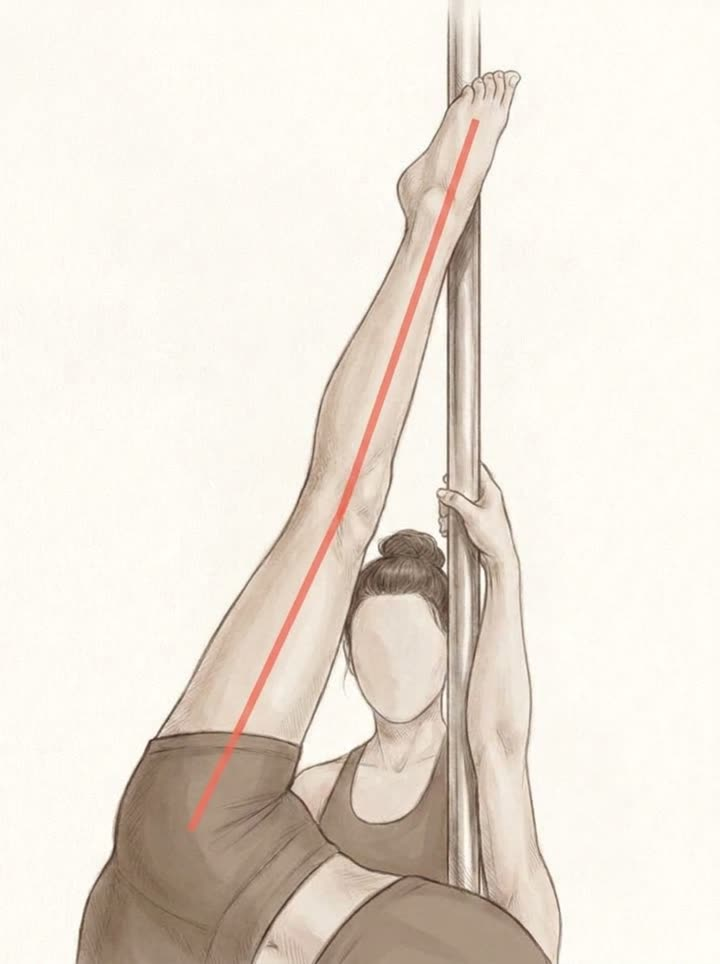
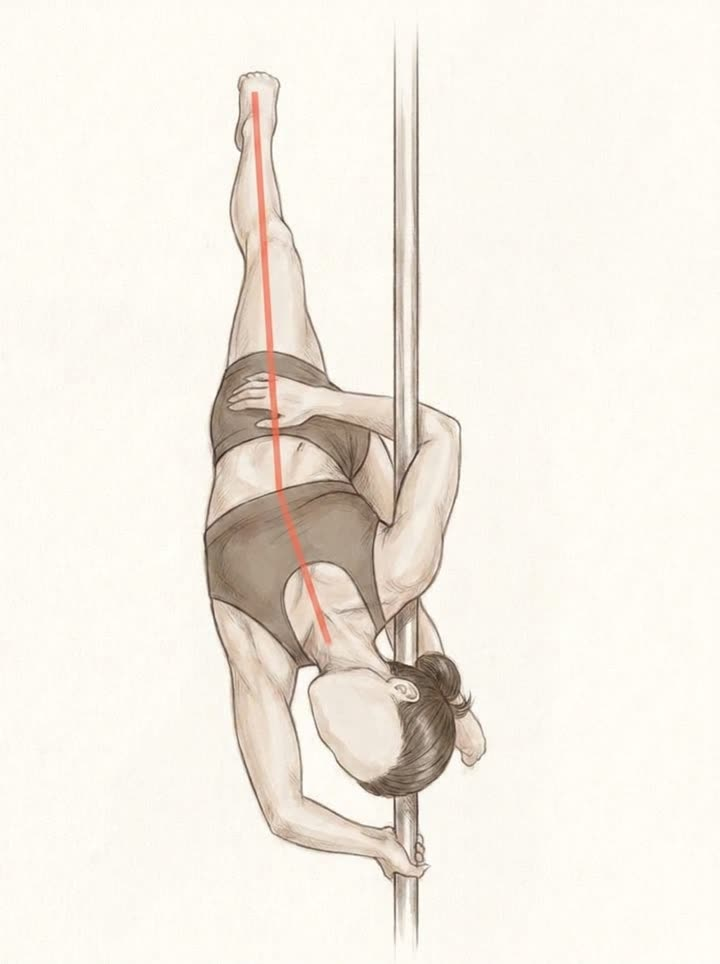
fix(illust): 전수 부위 대조 — 부위 틀림 1건·경계 2건 수리, 19/19 일치
belle: '일러스트는 이렇게 되어야 한다를 설명하는 건데 몇 개는 그 부위를 나타낸 것
같지 않다. 확실히 맞아?' → 확신할 수 없었다. 그때까지 검수가 대부분 몽타주
축소본(장당 390~470px)이었고 그 크기에서는 '원이 팔 쪽'까지만 보이지
'팔꿈치냐 겨드랑이냐'는 안 보인다.

19장을 한 장씩 크게 열어 'A-1 지목 부위에 표시가 있는가' 하나로 전수 대조:
· ✗ elbow-twist--leg — 선이 반대 다리 + 자세가 직립(도립이어야 함)
· △ pdshape--arm(원이 겨드랑이로 읽힘, 붉은 선 조각 잔재) ·
  elbow-twist--shoulder(원이 겨드랑이~상완)
· ✓ 나머지 16

수리 후 19/19 일치. 갤러리 카드에 '가리키는 곳' 표기 추가 —
belle 이 영상 대조 전에 그림과 글이 같은 곳을 말하는지 바로 볼 수 있게.

규율: 검수는 몽타주로 하지 않는다. 축소본은 '결함 없음'을 증명하지 못한다.

관찰(오류 아님): kip-up·climb 두 장만 레깅스, 나머지 17장은 쇼츠.

diff --git a/.planning/quick/260809-ill-missing-illustrations/260809-ill-SUMMARY.md b/.planning/quick/260809-ill-missing-illustrations/260809-ill-SUMMARY.md
@@ -300,3 +300,51 @@ power-spin--shoulder / elbow-twist--arm)은 9항목 통과. 결함은 정확히 
 "승인 자산"이라는 라벨이 검수 면제가 아니다 — **당시 게이트에 없던 항목은 통과 여부가
 확인된 적이 없다.** 오늘 게이트를 4→9로 늘렸으니, 과거 통과분도 새 게이트로 다시 봐야
 한다는 것이 이번에 실증됐다.
+
+---
+
+## 8차 — 전수 부위 대조 (belle "확실히 그 부위를 나타낸 것들이 맞아?")
+
+belle 질문: 일러스트는 "이렇게 되어야 한다"를 설명하는 건데, 몇 개는 스쳐봐도 그 부위를
+나타낸 것 같지 않다 — 확실하냐. **확신할 수 없었다**는 것이 정직한 답이었다.
+그때까지 검수는 대부분 **몽타주 축소본**(장당 390~470px)이었고, 그 크기에서는 "원이 팔 쪽에
+있다"까지만 보이지 "팔꿈치냐 겨드랑이냐"는 안 보인다.
+
+### 방법
+
+19장을 **한 장씩 크게**(장당 470~740px, 단독은 원본) 열고, 기준을 하나로 고정 —
+**"A-1이 지목한 부위에 표시가 있는가."** 자세가 그럴듯한지가 아니라 가리키는 곳이 맞는지.
+
+### 결과
+
+| 판정 | 장수 | 자산 |
+|---|---|---|
+| ✗ **부위 틀림** | 1 | `elbow-twist--leg` — 선이 **반대 다리**에. A-1 대상은 폴 따라 위로 뻗은 윗다리(실측 165.6° 수직). 게다가 자세도 **직립**으로 나옴(엘보 트위스트는 도립, 실측 inv 86%) |
+| △ **경계** | 2 | `pdshape--arm`(원이 겨드랑이로 읽힘) · `elbow-twist--shoulder`(원이 겨드랑이~상완) |
+| ✓ 일치 | 16 | 나머지 |
+
+### 수리
+
+- `elbow-twist--leg`: 도립 명시(머리가 골반보다 아래) + 대상 다리 명시("발끝이 프레임 최상단,
+  폴에 가장 가까운 다리") → try15 통과. **중간 단계에서 선 시작점이 가슴이던 것도 골반으로 교정**
+- `pdshape--arm`: 앵커를 부분 구도(kip-up--shoulder)에서 **같은 문법의 승인 자산**
+  (`elbow-twist--arm` = 폴 잡은 팔의 팔꿈치에 원)으로 교체 → try16 통과.
+  try15 에는 **붉은 선 조각 잔재**도 있었다(규격 = 원 1개만)
+- `elbow-twist--shoulder`: 등면 견갑만 담는 크롭(승인 자산 power-spin--shoulder 구도) → try15 통과
+
+**19/19 부위 표시 일치.**
+
+### 갤러리 개선
+
+카드마다 **"가리키는 곳 · {부위}"** 를 적었다. 그림과 글이 같은 곳을 말하는지 belle 이
+영상 대조 전에 바로 볼 수 있다.
+
+### 관찰 1건 (오류 아님, belle 판단)
+
+`ref-kip-up` · `ref-climb` 두 장만 **레깅스**(긴 바지)이고 나머지 17장은 쇼츠다. 부위 표시는
+정확해서 오류로 세지 않았지만 세트로 보면 톤이 어긋난다.
+
+### 이번에 확립된 검수 규율
+
+**검수는 몽타주로 하지 않는다.** 축소본은 "결함 없음"을 증명하지 못한다 — belle 이 잡은
+3건과 이번 전수 대조의 3건이 전부 축소본에서 통과했던 것들이다.
